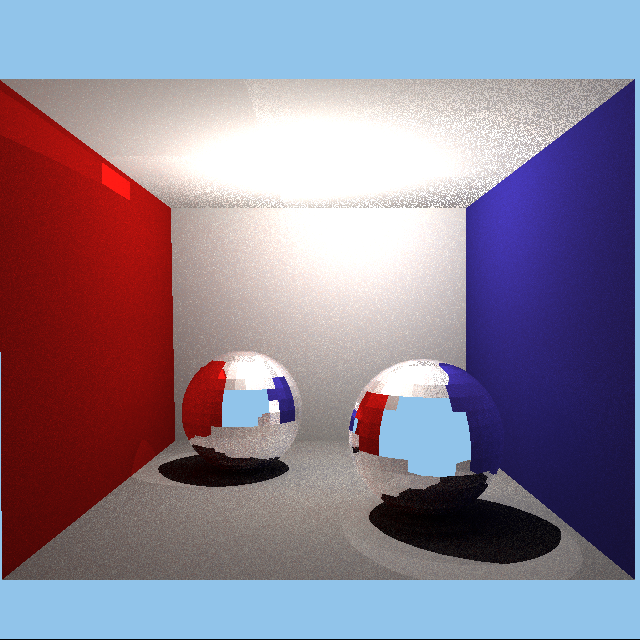
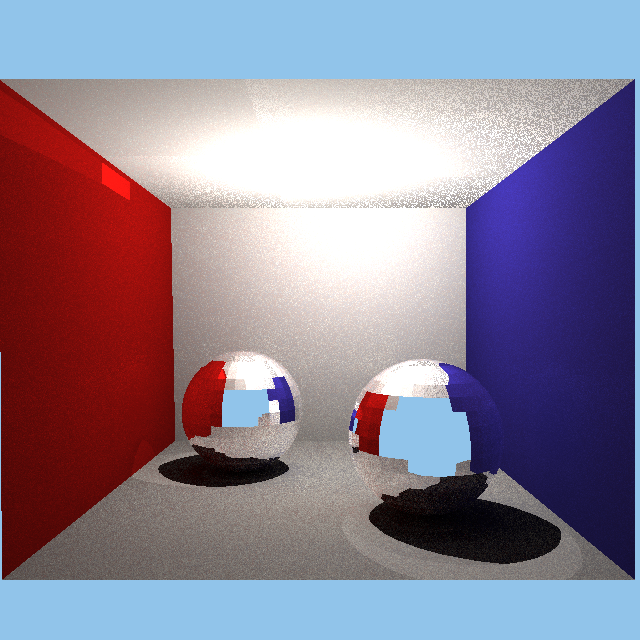
multithreading enabled again

diff --git a/VolumeRenderer/RayTracer/Renderer.cpp b/VolumeRenderer/RayTracer/Renderer.cpp
@@ -231,42 +231,42 @@ void Renderer::render(Options &options,
 	std::chrono::steady_clock::time_point begin;
 	begin = std::chrono::steady_clock::now();
 	
-	//if (options.multiThreaded && concurrentThreadsSupported > 1)
-	//{
-	//	int heightPerThread = options.height / concurrentThreadsSupported;
+	if (options.multiThreaded && concurrentThreadsSupported > 1)
+	{
+		int heightPerThread = options.height / concurrentThreadsSupported;
 
-	//	Renderer::scene.pix = pix;
-	//	Renderer::scene.options = options;
-	//	Renderer::scene.heightPerThread = heightPerThread;
-	//	Renderer::scene.orig = &options.cameraPosition;
+		Renderer::scene.pix = pix;
+		Renderer::scene.options = options;
+		Renderer::scene.heightPerThread = heightPerThread;
+		Renderer::scene.orig = &options.cameraPosition;
 
-	//	HANDLE* myhandle = new HANDLE[concurrentThreadsSupported];
+		HANDLE* myhandle = new HANDLE[concurrentThreadsSupported];
 
-	//	for (uint32_t i = 0; i < concurrentThreadsSupported; ++i) {
-	//		RenderThreadData* data = new RenderThreadData();
+		for (uint32_t i = 0; i < concurrentThreadsSupported; ++i) {
+			RenderThreadData* data = new RenderThreadData();
 
-	//		uint32_t* fromHeight = new uint32_t(heightPerThread * i);
-	//		uint32_t* toHeight = new uint32_t(heightPerThread * (i + 1));
-	//		uint32_t* ipoint = new uint32_t(i);
+			uint32_t* fromHeight = new uint32_t(heightPerThread * i);
+			uint32_t* toHeight = new uint32_t(heightPerThread * (i + 1));
+			uint32_t* ipoint = new uint32_t(i);
 
-	//		data->fromHeight = fromHeight;
-	//		data->toHeight = toHeight;
-	//		data->i = ipoint;
-	//		data->scene = scene;
+			data->fromHeight = fromHeight;
+			data->toHeight = toHeight;
+			data->i = ipoint;
+			data->scene = scene;
 
-	//		myhandle[i] = (HANDLE)_beginthreadex(0, 0, &Renderer::mythread, data, 0, 0);
-	//		SetThreadAffinityMask(myhandle[i], 1 << i);
-	//	}
+			myhandle[i] = (HANDLE)_beginthreadex(0, 0, &Renderer::mythread, data, 0, 0);
+			SetThreadAffinityMask(myhandle[i], 1 << i);
+		}
 
-	//	WaitForMultipleObjects(concurrentThreadsSupported, myhandle, true, INFINITE);
+		WaitForMultipleObjects(concurrentThreadsSupported, myhandle, true, INFINITE);
 
-	//	for (int i = 0; i < concurrentThreadsSupported; ++i)
-	//		CloseHandle(myhandle[i]);
-	//}
-	//else
-	//{		
+		for (int i = 0; i < concurrentThreadsSupported; ++i)
+			CloseHandle(myhandle[i]);
+	}
+	else
+	{		
 		Renderer::renderPartial(&options.cameraPosition, pix, 0, options.height - 1, options, scene);
-	//}
+	}
 
 	std::chrono::steady_clock::time_point end = std::chrono::steady_clock::now();
 	std::cout << "Renderer - Escena rendereada en: " << std::chrono::duration_cast<std::chrono::milliseconds>(end - begin).count() << "ms" << std::endl;
